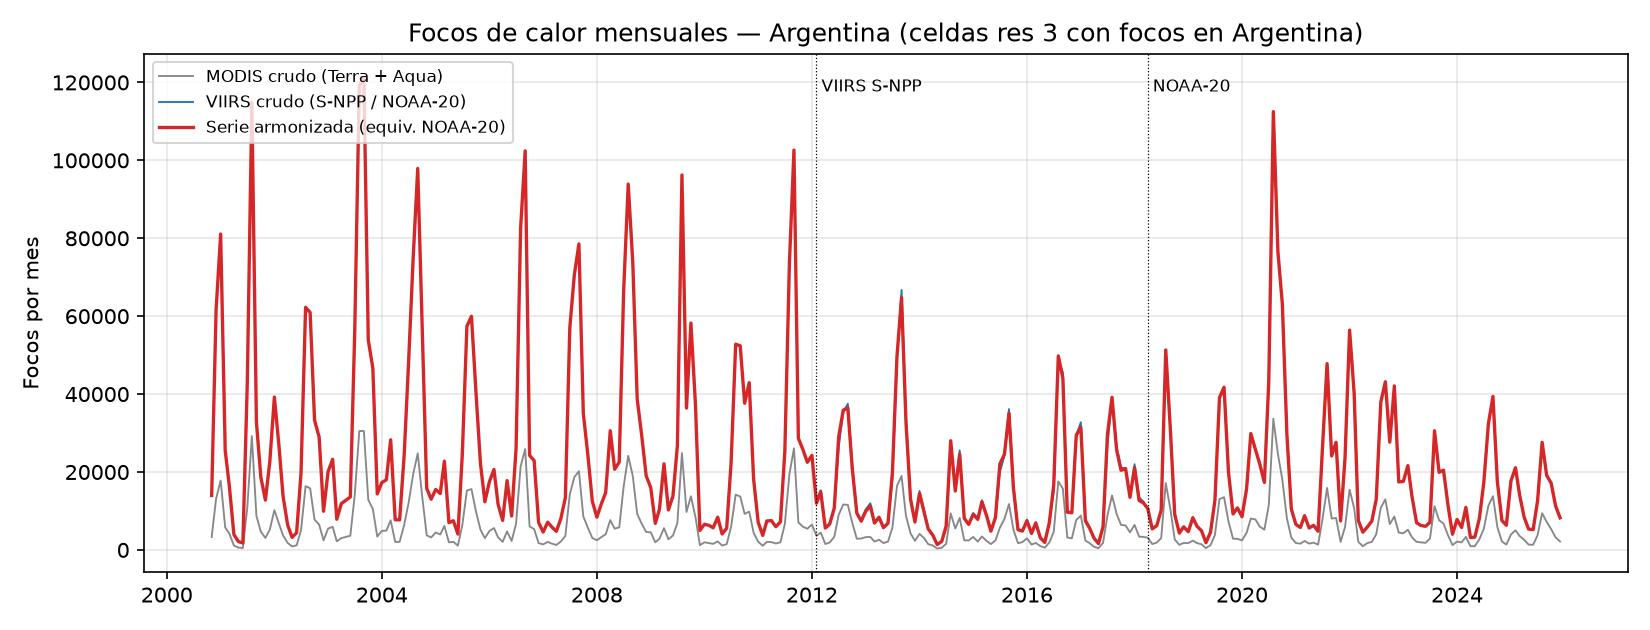
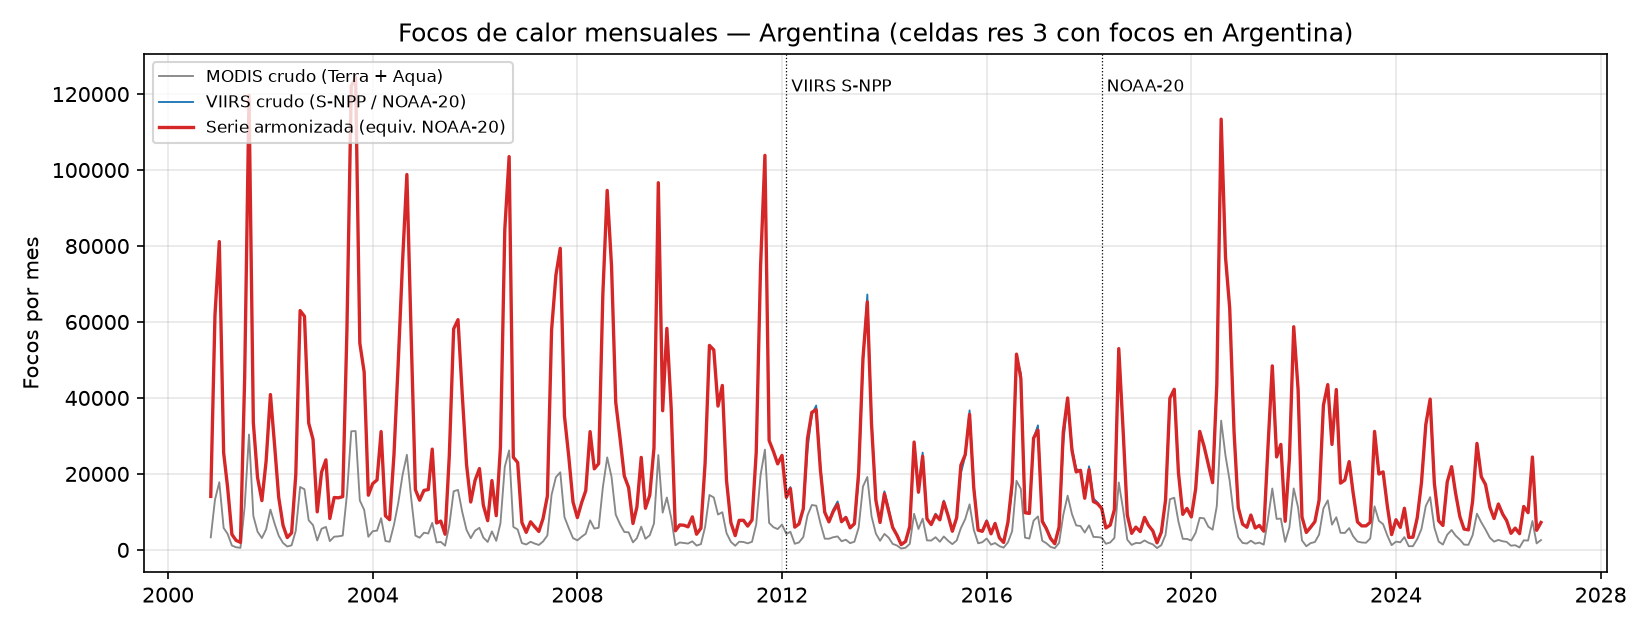
fix(pipeline): restrict S-NPP factor to dual-sensor months and document 2026 ingest

diff --git a/pipeline/validate_export.py b/pipeline/validate_export.py
@@ -1,0 +1,49 @@
+"""Valida data/processed/export/v1 contra el contrato, en paralelo.
+
+Usa la misma función `_check` de back/tools/validate_contract.py (mismas reglas),
+repartiendo los archivos entre todos los núcleos. El validador original procesa
+un archivo por vez y con ~1,4 GB de JSON tarda más de 2 horas.
+
+Uso:  python pipeline/validate_export.py [carpeta]
+"""
+
+from __future__ import annotations
+
+import os
+import sys
+from concurrent.futures import ProcessPoolExecutor
+from pathlib import Path
+
+REPO = Path(__file__).resolve().parents[1]
+sys.path.insert(0, str(REPO / "back" / "tools"))
+import validate_contract as vc  # noqa: E402
+
+ROOT = Path(sys.argv[1]) if len(sys.argv) > 1 else REPO / "data" / "processed" / "export" / "v1"
+
+
+def check(path: str):
+    p = Path(path)
+    rel = str(p.relative_to(ROOT))
+    return rel, vc._check(rel, p.read_bytes())
+
+
+def main():
+    files = sorted(str(p) for p in ROOT.rglob("*") if p.is_file())
+    # los más pesados primero, para repartir mejor la carga
+    files.sort(key=lambda f: -os.path.getsize(f))
+    fails = ok = skip = 0
+    with ProcessPoolExecutor(max_workers=os.cpu_count()) as ex:
+        for rel, err in ex.map(check, files, chunksize=4):
+            if err == "SKIP":
+                skip += 1
+            elif err:
+                fails += 1
+                print(f"FAIL {rel}: {err}", flush=True)
+            else:
+                ok += 1
+    print(f"--- {ok} ok, {skip} skip, {fails} error(s) sobre {len(files)} archivos")
+    sys.exit(1 if fails else 0)
+
+
+if __name__ == "__main__":
+    main()

diff --git a/pipeline/07_firms_2026.py b/pipeline/07_firms_2026.py
@@ -130,9 +130,13 @@ def normalize():
                                                              hive_partitioning = true)
                       WHERE country = 'Argentina') TO '{ar_cells}' (FORMAT parquet)
             """)
+    # ST_Read (GDAL) no puede con el GeoJSON del IGN de 140 MB en DuckDB 2.0:
+    # se lee como JSON y se simplifica (~500 m) para que el ST_Contains sea rápido.
     con.sql(f"""
         CREATE OR REPLACE TEMP TABLE ar_poly AS
-        SELECT geom FROM ST_Read('{IGN_DEPTS}')
+        SELECT ST_SimplifyPreserveTopology(ST_GeomFromGeoJSON(to_json(f.geometry)), 0.005) AS geom
+        FROM (SELECT unnest(features) AS f
+              FROM read_json('{IGN_DEPTS}', maximum_object_size = 500000000))
     """)
 
     sp_until = {}
@@ -150,7 +154,7 @@ def normalize():
         with Timer(f"normalizar {src} ({len(files)} archivos)"):
             con.sql(f"""
                 CREATE OR REPLACE TEMP TABLE api AS
-                SELECT *, h3_latlng_to_cell(latitude, longitude, 6) AS h3_r6
+                SELECT *, h3_latlng_to_cell(CAST(latitude AS DOUBLE), CAST(longitude AS DOUBLE), 6) AS h3_r6
                 FROM read_csv({[str(f) for f in files]}, header = true, all_varchar = true,
                               union_by_name = true)
             """)

diff --git a/pipeline/04_harmonize.py b/pipeline/04_harmonize.py
@@ -91,7 +91,11 @@ def factor_tables(con):
         WITH s AS (
             SELECT band, moy, sum(n20) AS n20, sum(n) AS n,
                    sum(n20_cd) AS n20_cd, sum(n_cd) AS n_cd FROM r3
-            WHERE month >= DATE '{N20_START}' GROUP BY ALL),
+            -- solo meses con los dos sensores: S-NPP de 2026 no se bajó (paso 7)
+            WHERE month >= DATE '{N20_START}'
+              AND month <= (SELECT max(month) FROM r3 WHERE n > 0)
+              AND month <= (SELECT max(month) FROM r3 WHERE n20 > 0)
+            GROUP BY ALL),
         g AS (SELECT moy, sum(n20) / sum(n) AS fg, sum(n20_cd) / sum(n_cd) AS fg_cd FROM s GROUP BY moy)
         SELECT s.band, s.moy,
                CASE WHEN s.n >= 50 THEN s.n20 / s.n ELSE g.fg END AS f_snpp,

diff --git a/pipeline/README.md b/pipeline/README.md
@@ -41,7 +41,8 @@ Los pasos 01 y 03 son reanudables: si se cortan, al volver a correrlos saltean l
 | 4. Armonización | `04_harmonize.py` | `harmonized_r3.parquet`, `harmonized_r5.parquet`, factores, `docs/validation/` | ✅ |
 | 5. Agregados | `05_aggregate.py` | `data/processed/agg/`: globo, mensual y diario res 5, climatología semanal, riesgo nivel historial | ✅ |
 | 6. Export | `06_export.py` | `data/processed/export/v1/` (meta, globe, fire/cal, fire/daily, fire/points, risk) + `export/sizes.json` | ✅ |
-| 2026 por API | `07_firms_2026.py` | SP hasta jul/ago 2026 y NRT hasta hoy | 🔄 en curso |
+| 2026 por API | `07_firms_2026.py` | SP hasta jul/ago 2026 y NRT hasta hoy | ✅ |
+| Validación | `validate_export.py` | `_check` de `back/tools/validate_contract.py` en paralelo | ✅ |
 | Subida | `upload_r2.py` | `v1/` y `work/` en R2 | ⬜ falta (sin bucket todavía) |
 
 ## Decisiones de implementación
@@ -88,6 +89,16 @@ Los pasos 01 y 03 son reanudables: si se cortan, al volver a correrlos saltean l
 - **`fire/points`:** solo focos con país Argentina, todos los sensores y satélites, filtrados igual que el resto.
 - **`lc`:** `null` en esta versión (D3).
 - **Tamaños comprimidos** (gzip nivel 6) en `data/processed/export/sizes.json`.
+- **Validación:** `python pipeline/validate_export.py` corre la misma función `_check` de `back/tools/validate_contract.py`, repartida en todos los núcleos. El validador original, de a un archivo por vez, tarda más de 2 horas con ~1,4 GB de JSON; esta versión, unos 15 minutos.
+
+## 2026 por la API de FIRMS (paso 7, E4)
+
+- **Fuentes:** `MODIS_SP` (2026-01-01 → 2026-08-31), `MODIS_NRT` (2026-09-01 → hoy), `VIIRS_NOAA20_SP` (2026-01-01 → 2026-07-31), `VIIRS_NOAA20_NRT` (2026-08-01 → hoy). Donde hay SP no se usa NRT.
+- **S-NPP de 2026 no se baja:** la serie usa NOAA-20 desde 2018-04. `sp_until.VIIRS_SNPP` queda en 2025-12-31. Por eso el factor S-NPP → NOAA-20 del paso 4 se calcula **solo con los meses en que hay datos de los dos sensores** (2018-04 → 2025-12); si se incluyera 2026, el factor se inflaría.
+- **Pedidos:** 129 pedidos mundiales de 5 días (`/api/area/csv/{key}/{fuente}/world/5/{inicio}`; la fecha es el inicio del tramo). Cada uno cuesta ~180 transacciones de las 5.000 cada 10 minutos, así que el script consulta `mapkey_status` antes de cada pedido y espera si hace falta. Las respuestas se guardan en `~/spaceapps-fuego/data/raw/firms_api/` (reanudable). Unos 50 minutos, 1,6 GB.
+- **`type` en NRT:** los NRT no traen la columna `type`. Se infiere con una máscara de fuentes fijas: celdas res 6 donde, con NOAA-20 2018–2025, al menos la mitad de las detecciones (y como mínimo 10) fueron type 1, 2 o 3. Los NRT en esas celdas quedan type 2 y se descartan; el resto, type 0. Resultado: 5,7 % descartado en NOAA-20 NRT contra 8,6 % en SP con `type` real.
+- **`country`:** la API no lo trae. Se marca Argentina si la celda res 6 tiene focos históricos de Argentina, o si el punto cae dentro de un departamento del IGN (GeoJSON leído con `read_json`, porque `ST_Read` de DuckDB 2.0 no puede con el archivo de 140 MB).
+- **Resultado:** 20,2 M de focos de 2026 hasta el día de hoy; 124 mil en Argentina.
 
 
 ## Números de la primera corrida

diff --git a/docs/decisions.md b/docs/decisions.md
@@ -57,3 +57,7 @@ Convención: `D<n>` es el identificador estable. Una decisión no se borra; si c
   - `fire/points`: 4 de 1.485 archivos superan 800 KB (máximo 1,5 MB). Son descargas, no se cargan en el render.
   - Riesgo nivel historial: con la regla del brief, una celda sin focos recientes tiene `p = clim` → `ratio = 1` → **`moderado`** siempre que `clim ≥ 0,01`. En plena temporada, "moderado" significa "lo normal para la época", lo que puede leerse como alarma. Se mantuvo la regla; propuesta: que el front muestre "normal para la época" cuando `ratio` esté entre 0,75 y 1,5, o mover los cortes.
   - Riesgo con `ratio = null`: el contrato no da umbrales para `cat` desde `p`. Se usó p < 0,05 bajo · < 0,15 moderado · < 0,30 alto · resto muy_alto.
+- **Frente A, E4 (2026-11-14), para discutir:**
+  - 2026 por API: los NRT no traen `type`; se infiere con una máscara de fuentes fijas (celdas res 6 con ≥ 50 % de detecciones no vegetación en NOAA-20 2018–2025). `country` se infiere con celdas históricas y polígonos del IGN. Ver `pipeline/README.md`.
+  - S-NPP de 2026 no se descargó (la serie usa NOAA-20). `sp_until.VIIRS_SNPP = 2025-12-31`. El factor S-NPP → NOAA-20 se calcula solo con los meses en que hay datos de los dos sensores.
+  - D29 dice que el riesgo escala con focos recientes "en la celda o las vecinas"; el pipeline calcula la persistencia solo en la celda. Si se quiere incluir las vecinas (anillo H3 de 1), es un cambio chico en `05_aggregate.py`.
